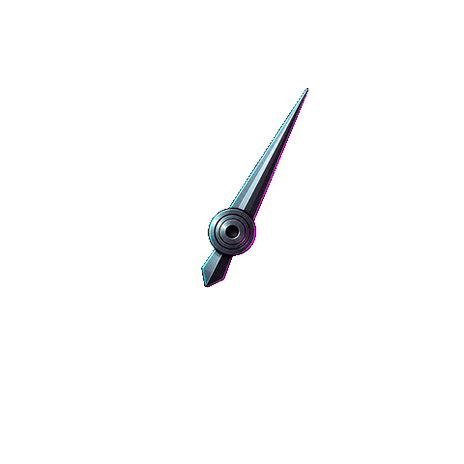
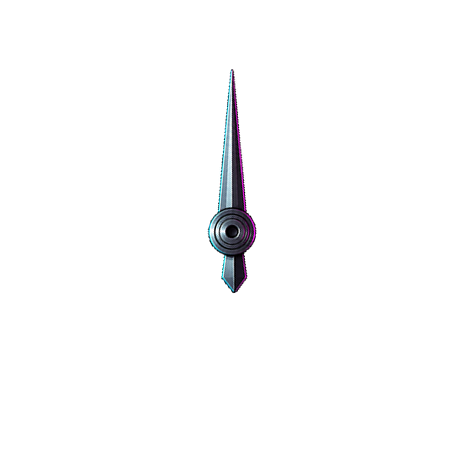
R141: the gauge needle is baked at 0 degrees, so the sweep finally means what it says
Owner-authorised intake of one raster: ui/gauge_needle.png, from the supplied
chatgpt-gauge-needle-0deg package, through the real ingest path.

THE DEFECT THIS CLOSES. BonusInstrumentColumn computes
  needleDeg = -110 + clamp((multiplier - 1) / 15, 0, 1) * 220
and its comment says the needle "sweeps roughly -110deg (low) to +110deg (high)
through the top". The DISPLAYED angle is the art's baked angle plus that rotation, so
the comment was only true if the art pointed straight up. It did not. R137 measured the
adopted needle baked at +27.5 degrees and adopted it anyway as the lesser of three
evils, leaving every reading 27.5 degrees clockwise of what the dial's own ticks say.
art_manifest_arc2.csv UI-02 states the remedy in terms: supply at 0 and the call site
needs no change.

BAKED ANGLE, BEFORE AND AFTER, measured by me on the rasters rather than taken from the
supplier's note, by two independent methods that agree:
  shipped at HEAD   tip +27.512 deg, tip centroid +27.503, principal axis 27.202
  adopted           tip  +0.000 deg, tip centroid  -0.141, principal axis  -0.562
Mass centroid moves from x=244.83 to x=232.01 against a canvas centre of 232.0, which is
what a needle pointing straight up looks like. Opaque pixel count is 4,768 against
4,759, so it is the same needle rotated rather than a redrawn one, which is what the
supplier's note claims and what the pixels confirm.

THE FORMULA IS UNCHANGED, and that is the fence's own condition: change it only if
[…]

Changed region(s): [[0.4224, 0.1509, 0.6638, 0.6336]]

diff --git a/reports/briefs/FS_R141_GaugeNeedle0deg_Prompt.md b/reports/briefs/FS_R141_GaugeNeedle0deg_Prompt.md
@@ -1,0 +1,68 @@
+---
+
+**R141: INTAKE 0° GAUGE NEEDLE**
+
+Sole live brief. Unattended. Review lane. Use Opus 5 if available.
+
+### THE FENCE
+- This raster only:  
+  `/Users/jt/math-sdk/.scratch/art-review/chatgpt-gauge-needle-0deg/gauge_needle.png`
+- Do not touch `gauge_face.png`.
+- Do not change the sweep formula unless ingest proves the bake is not 0°.
+- No hero, audio, kit, or other art.
+- Do not sweep unrelated rasters.
+
+### PRECONDITIONS
+- On main, up to date (R138/R139 state as-is).
+- Save the brief verbatim.
+- Confirm the source file exists and measure it first-hand.
+
+### GOAL
+Replace shipped `gauge_needle.png` with the 0° needle so
+
+`needleDeg = -110 + clamp((mult-1)/15) * 220`
+
+sweeps −110° → +110° through the top, as the comment says.
+
+---
+
+# WORKSTREAM 1 — MEASURE BEFORE INGEST
+
+Record:
+- source W×H, alpha
+- tip angle (must be ~0°)
+- pivot vs canvas centre
+- shipped target size from the manifest / call site
+- current HEAD needle angle
+
+If source aspect ≠ shipped target, ingest must resize without rotating the tip off 0°.
+
+---
+
+# WORKSTREAM 2 — INGEST AND SWAP
+
+Use the real ingest path.  
+If the row is UI and ingest refuses, stop and report — do not raw-overwrite unless the project already treats this file as a direct theme swap.
+
+After swap, prove in-browser:
+- face still needle-free (on-screen count = 1)
+- at multiplier 1 the needle sits at the start of the arc, not 27° high
+- at mid and max the sweep is symmetric about 12 o’clock
+- hub does not orbit
+
+If the baked tip is not 0° after ingest, fix the call site by the measured residual only. Do not guess 27.2°.
+
+---
+
+# WORKSTREAM 3 — QA
+
+- 1280 feature column
+- reduced motion
+- no second needle
+- R138 hero float untouched
+- static gates locally before push
+
+### CLOSE
+Report baked angle before/after, whether the formula changed, needle count on screen. PR on review lane.
+
+---
